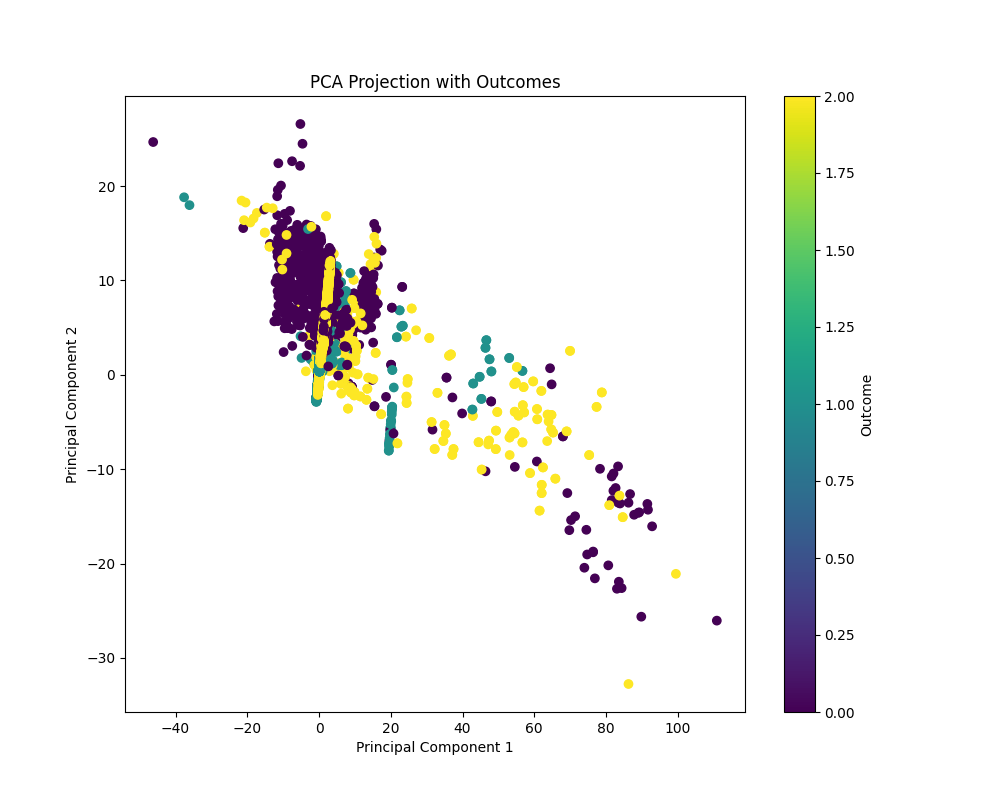
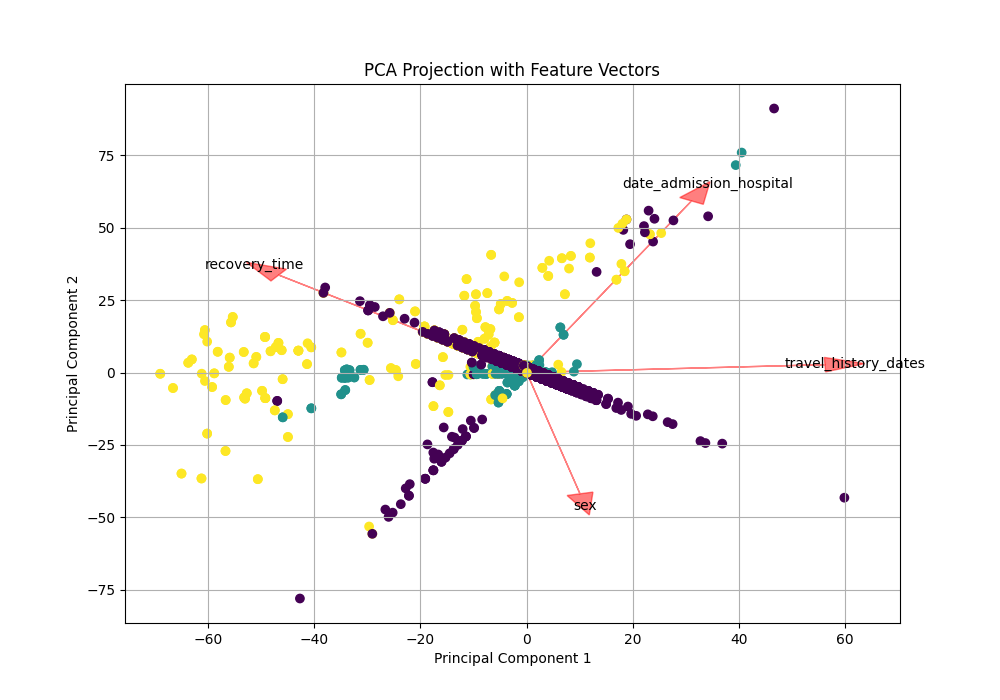
Correct PCA plot

diff --git a/analysis/analyse_dataset.py b/analysis/analyse_dataset.py
@@ -7,19 +7,26 @@ from sklearn.preprocessing import StandardScaler
 import pandas as pd
 
 
-def analyze_dataset(csv_file):
-    df = pd.read_csv(csv_file, delimiter=',')
+def analyze_dataset(csv_file, save_file=None):
+    df = pd.read_csv(csv_file)
+    #empty_rows_by_column(df)
+    #compute_correlation(df)
+    #scatter_plots(df)
+    features = find_most_correlated(csv_file, 'outcome', 4)
+    perform_pca(df, features, save_file)
 
-    total_rows = len(df)
-    empty_counts = df.isnull().sum()
-    column_types = df.dtypes
+
+def empty_rows_by_column(dataframe):
+    total_rows = len(dataframe)
+    empty_counts = dataframe.isnull().sum()
+    column_types = dataframe.dtypes
 
     print('Column name (column type) : number of empty rows')
 
-    max_col_len = max(len(col) for col in df.columns)
-    max_type_len = max(len(str(column_types[col])) for col in df.columns)
+    max_col_len = max(len(col) for col in dataframe.columns)
+    max_type_len = max(len(str(column_types[col])) for col in dataframe.columns)
 
-    for column in df.columns:
+    for column in dataframe.columns:
         col_name = column.ljust(max_col_len)
         col_type = str(column_types[column]).ljust(max_type_len)
         empty_count = str(empty_counts[column]).rjust(5)
@@ -29,10 +36,8 @@ def analyze_dataset(csv_file):
     print(total_rows)
 
 
-def compute_correlation(input_file):
-    df = pd.read_csv(input_file)
-
-    correlation_matrix = df.corr()
+def compute_correlation(dataframe):
+    correlation_matrix = dataframe.corr()
 
     print("Matrice de corrélation :")
     for col1 in correlation_matrix.columns:
@@ -41,9 +46,8 @@ def compute_correlation(input_file):
             print(f"{col1} - {col2}: {correlation_value}")
 
 
-def scatter_plots(file):
-    df = pd.read_csv(file)
-    columns = df.columns
+def scatter_plots(dataframe):
+    columns = dataframe.columns
 
     for column1 in columns:
         with PdfPages(f'./data/scatter_plots/scatter_plot_{column1}.pdf') as pdf:
@@ -51,7 +55,7 @@ def scatter_plots(file):
                 if column1 == column2:
                     continue
                 fig, ax = plt.subplots(figsize=(8, 6))
-                ax.scatter(df[column1], df[column2], marker='.')
+                ax.scatter(dataframe[column1], dataframe[column2], marker='.')
                 ax.set_xlabel(column1)
                 ax.set_ylabel(column2)
                 plt.title(f'Scatter plot: {column1} vs {column2}')
@@ -60,16 +64,16 @@ def scatter_plots(file):
         print(f'Saved scatter plots for {column1} in scatter_plot_{column1}.pdf')
 
 
-def perform_pca(file):
-    df = pd.read_csv(file)
+def perform_pca(dataframe, features, save_file):
+    feature_data = dataframe[features]
 
     imputer = SimpleImputer(strategy='most_frequent')
-    imputed_data = imputer.fit_transform(df)
+    imputed_data = imputer.fit_transform(feature_data)
 
     scaler = StandardScaler()
     scaled_data = scaler.fit_transform(imputed_data)
 
-    outcome = df['outcome']
+    outcome = dataframe['outcome']
 
     pca = PCA(n_components=2)
     pca_result = pca.fit_transform(scaled_data)
@@ -77,19 +81,42 @@ def perform_pca(file):
     pca_df = pd.DataFrame(data=pca_result, columns=['PC1', 'PC2'])
     pca_df['Outcome'] = outcome
 
-    return pca_df
+    vectors = pca.components_.T
+
+    return plot_pca_projection(pca_df, vectors, features, save_file)
 
 
-def plot_pca_projection(pca_df, save_file=None):
-    plt.figure(figsize=(10, 8))
-    scatter = plt.scatter(pca_df['PC1'], pca_df['PC2'], c=pca_df['Outcome'], cmap='viridis')
+def plot_pca_projection(pca_df, vectors, features, save_file=None):
+    plt.figure(figsize=(10, 7))
+    scale_factor = 80
+    scaled_vectors = vectors * scale_factor
+
+    for i, feature in enumerate(features):
+        plt.arrow(0, 0, scaled_vectors[i, 0], scaled_vectors[i, 1],
+                  color='red', alpha=0.5, head_width=5)
+        plt.text(scaled_vectors[i, 0] * 1.1, scaled_vectors[i, 1] * 1.1, features[i], color='black', ha='center',
+                 va='center')
+
+    plt.scatter(pca_df['PC1'], pca_df['PC2'], c=pca_df['Outcome'], cmap='viridis')
+
     plt.xlabel('Principal Component 1')
     plt.ylabel('Principal Component 2')
-    plt.colorbar(scatter, label='Outcome')
-    plt.title('PCA Projection with Outcomes')
+    plt.title('PCA Projection with Feature Vectors')
+    plt.grid()
 
     if save_file:
         plt.savefig(save_file)
         print(f'Plot saved as {save_file}')
     else:
         plt.show()
+
+
+def find_most_correlated(input_file, column, number_of_features):
+    df = pd.read_csv(input_file)
+
+    correlation_matrix = df.corr()
+    correlation_with_age = correlation_matrix[column]
+
+    sorted_correlations = correlation_with_age.abs().sort_values(ascending=False)
+    most_correlated_features = sorted_correlations.index[1:(number_of_features + 1)]
+    return most_correlated_features
